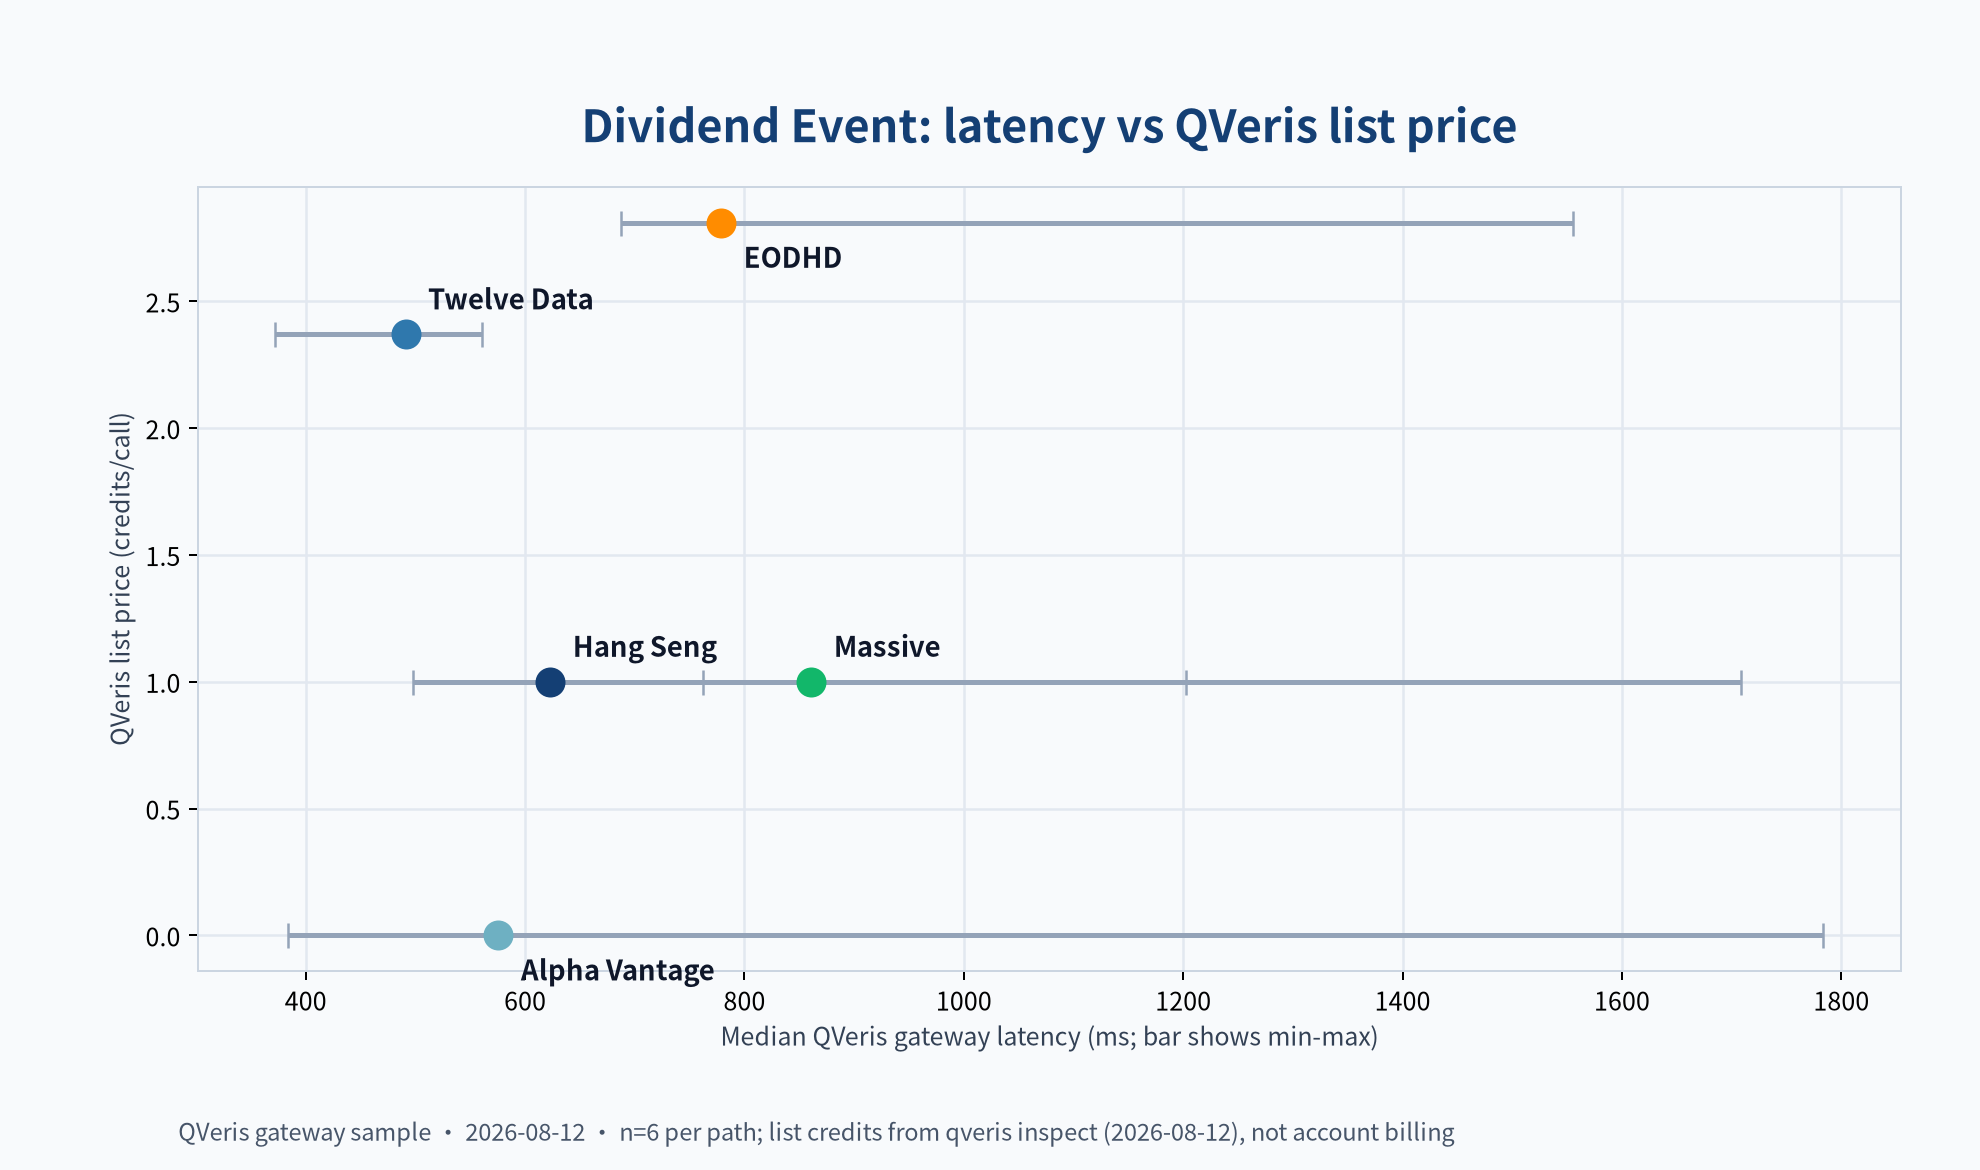
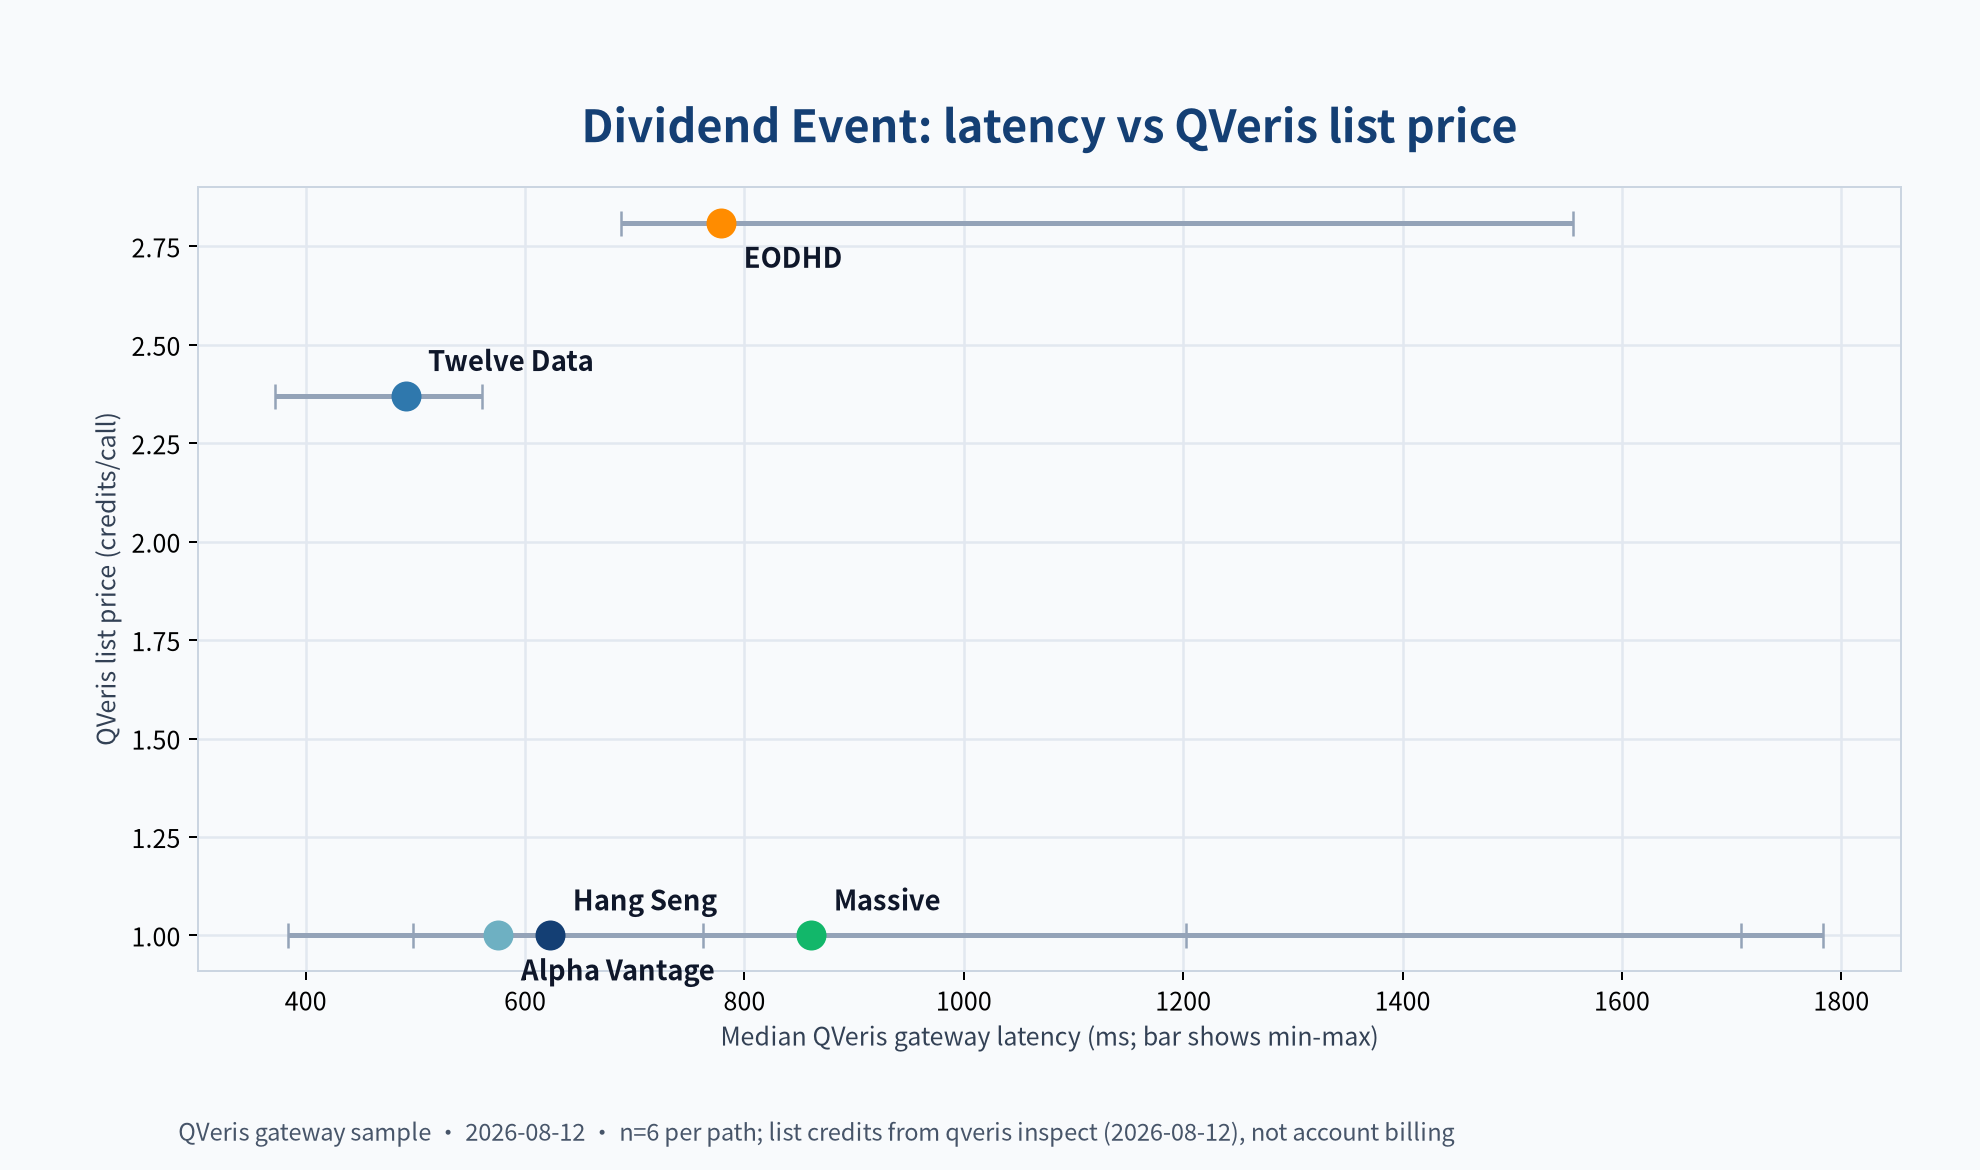
docs: update Alpha Vantage list price

diff --git a/tests/guides/test_dividend_guide_release.py b/tests/guides/test_dividend_guide_release.py
@@ -121,7 +121,7 @@ def test_article_publishes_inspect_list_prices_not_discounted_account_costs() ->
     expected = {
         "Hang Seng": "1 credit/call",
         "Twelve Data": "2.37 credits/call",
-        "Alpha Vantage": "0 credits/call",
+        "Alpha Vantage": "1 credit/call",
         "EODHD": "2.81 credits/call",
         "Massive": "1 credit/call",
     }
@@ -478,7 +478,7 @@ def test_article_answers_runtime_price_coverage_and_agent_decisions() -> None:
     ):
         assert phrase in article
     assert "491 ms / 2.37 credits/call" in article
-    assert "576 ms / 0 credits/call" in article
+    assert "576 ms / 1 credit/call" in article
     assert "779 ms / 2.81 credits/call" in article
     assert "861 ms / 1 credit/call" in article
     assert "aggregate AI-friendly rating" not in article
@@ -659,15 +659,17 @@ def test_article_price_ranking_and_billing_scope_come_from_snapshot() -> None:
     article = ARTICLE.read_text(encoding="utf-8")
     snapshot = json.loads((MANIFEST.parent / "selection-snapshot.json").read_text())
     prices = {
-        row["provider_name"]: row["qveris_list_price"]["amount_credits"]
+        _article_provider_name(row): row["qveris_list_price"]["amount_credits"]
         for row in snapshot["rows"]
         if row["qveris_list_price"]["state"] == "declared"
     }
     minimum = min(prices.values())
     lowest = sorted(name for name, amount in prices.items() if amount == minimum)
-    assert lowest == ["Alpha Vantage"]
-    assert "Alpha Vantage had the lowest Inspect price at 0 credits/call" in article
-    assert "followed by Hang Seng and Massive at 1 credit/call" in article
+    assert lowest == ["Alpha Vantage", "Hang Seng", "Massive"]
+    assert (
+        "Alpha Vantage, Hang Seng, and Massive shared the lowest Inspect price at "
+        "1 credit/call"
+    ) in article
     assert "does not use account billing in its tables or charts" in article
 
 

diff --git a/tests/profiles/test_selection_snapshot_acceptance.py b/tests/profiles/test_selection_snapshot_acceptance.py
@@ -143,7 +143,7 @@ def test_ac5_qveris_list_prices_come_from_inspect_not_account_billing() -> None:
     expected = {
         "hangseng-dividends-qveris": 1.0,
         "massive-stocks-dividends-qveris": 1.0,
-        "alpha-vantage-dividends-qveris": 0.0,
+        "alpha-vantage-dividends-qveris": 1.0,
         "twelve-data-dividends-qveris": 2.37,
         "eodhd-dividends-qveris": 2.81,
     }

diff --git a/docs/guides/best-dividend-apis.md b/docs/guides/best-dividend-apis.md
@@ -27,7 +27,7 @@ The baseline test ran on August 11, 2026. Each applicable Access Path had one po
 | [Hang Seng](https://www.gildata.com/products/core-data.html) (QVeris) · [Try it in QVeris](https://qveris.ai/providers/hangseng_polysource) | **CN sample passed:** both rounds returned a verifiable security identity, ex-dividend date, and single-event amount | 623 ms / 1 credit/call | No public standard price; contact sales | CN passed (2/2); other 8 not tested: explicitly not applicable |
 | [iFinD](https://mcp.51ifind.com/gwstatic/static/ds_web/ifind-mcp-web/skills/SKILL_INSTALL_GUIDE.md) (Native MCP) | **Sample did not pass:** no single-event date, and the annual cumulative value cannot establish the amount for one event | Not applicable; Native MCP is excluded from QVeris metrics | Personal CNY 40/month for 5,000 requests | US, HK, and CN samples did not pass (0/2); other 6 not tested: explicitly not applicable |
 | [Twelve Data](https://twelvedata.com/docs#dividends) (QVeris) · [Try it in QVeris](https://qveris.ai/providers/twelvedata) | **Sample passed:** AAPL returned an ex-dividend date and single-event amount in all three rounds; the invalid symbol produced no fabricated event | 491 ms / 2.37 credits/call | Grow from USD 29/month; free tier 800 credits/day | 6 markets passed (2/2); HK, CN, and ES samples did not pass (0/2) |
-| [Alpha Vantage](https://www.alphavantage.co/documentation/#dividends) (QVeris) · [Try it in QVeris](https://qveris.ai/providers/alphavantage) | **Sample passed:** both the AAPL sample and invalid-symbol control met the contract in all three rounds | 576 ms / 0 credits/call | Premium from USD 49.99/month; free tier 25 requests/day | 4 applicable markets passed (2/2); 5 not tested: explicitly not applicable |
+| [Alpha Vantage](https://www.alphavantage.co/documentation/#dividends) (QVeris) · [Try it in QVeris](https://qveris.ai/providers/alphavantage) | **Sample passed:** both the AAPL sample and invalid-symbol control met the contract in all three rounds | 576 ms / 1 credit/call | Premium from USD 49.99/month; free tier 25 requests/day | 4 applicable markets passed (2/2); 5 not tested: explicitly not applicable |
 | [EODHD](https://eodhd.com/financial-apis/api-splits-dividends/) (QVeris) · [Try it in QVeris](https://qveris.ai/providers/eodhd) | **Sample passed:** both the AAPL sample and invalid-symbol control met the contract in all three rounds | 779 ms / 2.81 credits/call | All-in-One USD 99.99/month | 7 markets passed (2/2); JP and IN samples did not pass (0/2) |
 | [Massive](https://massive.com/docs/rest/stocks/corporate-actions/dividends) (QVeris) · [Try it in QVeris](https://qveris.ai/providers/massive_stocks) | **Sample passed:** both the AAPL sample and invalid-symbol control met the contract in all three rounds | 861 ms / 1 credit/call | [Stocks Basic Free](https://massive.com/pricing?product=stocks); Dividend endpoint included in all Stocks plans | US passed (2/2); other 8 not tested: explicitly not applicable |
 
@@ -80,7 +80,7 @@ Core fields determine whether a record can enter a business system: security ide
 
 The x-axis is median QVeris gateway latency; each horizontal bar spans the observed minimum to maximum across six calls. The y-axis is the public list price returned by `qveris inspect`, not the actual charge to the test account. Because that account receives a discount, this article does not use account billing in its tables or charts.
 
-Twelve Data had the lowest median latency in this sample. Alpha Vantage had the lowest Inspect price at 0 credits/call, followed by Hang Seng and Massive at 1 credit/call. EODHD had both the highest list price and highest observed median latency. Six calls can prioritize a reproduction test; they cannot predict regional performance, P95/P99, or a provider's Native API SLA.
+Twelve Data had the lowest median latency in this sample. Alpha Vantage, Hang Seng, and Massive shared the lowest Inspect price at 1 credit/call. EODHD had both the highest list price and highest observed median latency. Six calls can prioritize a reproduction test; they cannot predict regional performance, P95/P99, or a provider's Native API SLA.
 
 ### Native plans and QVeris credits are different prices
 
